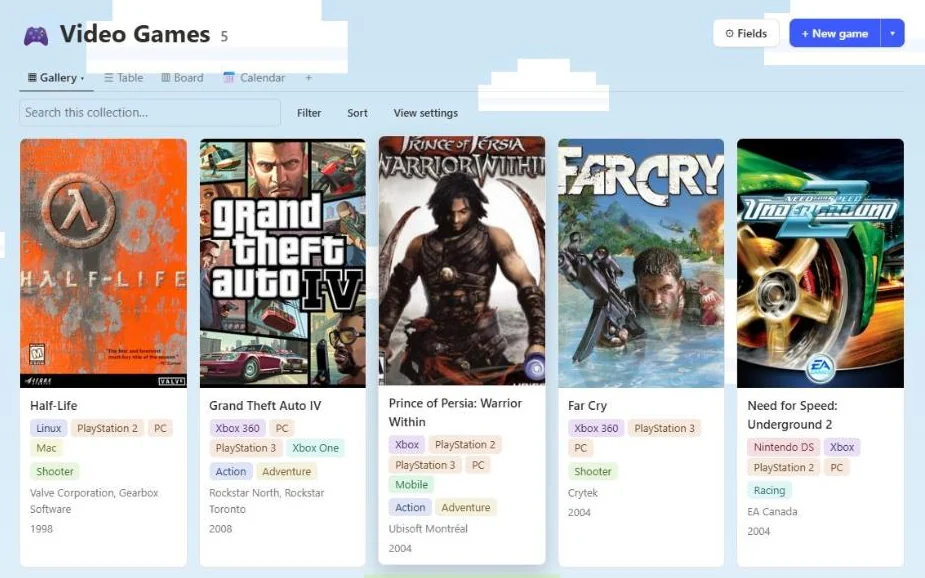
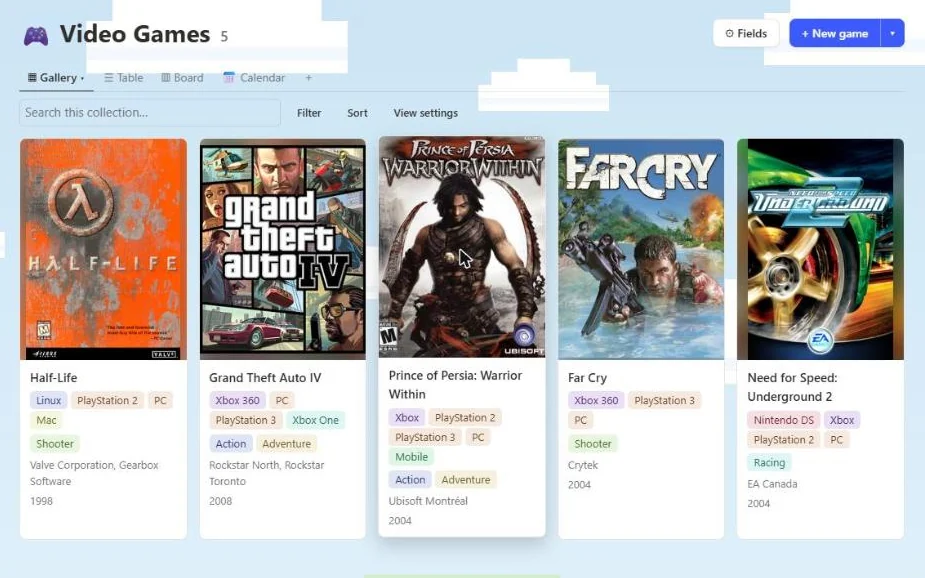
Gallery covers fit without cropping, plain Video Games market text
- Gallery covers use object-fit: contain inside the card frame; when the image
  ratio differs from the frame, a blurred copy of the cover fills the edges
  (box art was cropped up to 17% on the sides before); game cards use a 3:4 frame
- Note page cover thumbnail also shows the whole image
- Hover zoom reduced from 8% to 5%
- Market summary/description no longer compares the plugin to Books and Movies
- Market screenshots retaken

diff --git a/web/src/pages/collection/Cells.tsx b/web/src/pages/collection/Cells.tsx
@@ -60,10 +60,21 @@ export function EditCell({ note, def }: { note: Note; def: PropDef }) {
   );
 }
 
-export function Cover({ src, icon }: { src?: string; icon: string }) {
+/**
+ * Kapak görseli. fit: kapak kırpılmadan kutuya tam sığar, oranı kutudan farklıysa kalan boşluğu
+ * aynı görselin bulanık hâli doldurur (galeri). fit yoksa kutuyu doldurur (pano şeridi).
+ */
+export function Cover({ src, icon, fit }: { src?: string; icon: string; fit?: boolean }) {
   const [url, setUrl] = useState<string | null>(null);
   useEffect(() => {
     if (src) resolveFileUrl(src).then(setUrl, () => setUrl(null));
   }, [src]);
-  return url ? <img className="cover" src={url} alt="" loading="lazy" referrerPolicy="no-referrer" /> : <div className="cover empty">{icon}</div>;
+  if (!url) return <div className="cover empty">{icon}</div>;
+  if (!fit) return <img className="cover" src={url} alt="" loading="lazy" referrerPolicy="no-referrer" />;
+  return (
+    <div className="cover cover-fit">
+      <img className="cover-bg" src={url} alt="" aria-hidden="true" loading="lazy" referrerPolicy="no-referrer" />
+      <img className="cover-img" src={url} alt="" loading="lazy" referrerPolicy="no-referrer" />
+    </div>
+  );
 }

diff --git a/web/src/styles.css b/web/src/styles.css
@@ -364,8 +364,14 @@ h1.title.static { margin: 4px 0 14px; }
 /* Kapaklı galeri: fare gelince kart hafifçe yükselir, kapak çerçevesinin içinde yakınlaşır */
 .card-cover { overflow: hidden; }
 .card-cover .cover { transition: transform 0.45s cubic-bezier(0.2, 0.7, 0.2, 1); }
+/* Kapak kırpılmadan tam sığar; oranı farklıysa kenarları aynı görselin bulanık hâli doldurur */
+.cover-fit { position: relative; overflow: hidden; }
+.cover-fit .cover-bg { position: absolute; inset: 0; width: 100%; height: 100%; object-fit: cover; filter: blur(16px) brightness(0.8) saturate(1.2); transform: scale(1.2); }
+.cover-fit .cover-img { position: relative; width: 100%; height: 100%; object-fit: contain; display: block; }
+/* Oyun kutuları 2:3'ten geniş (çoğu 3:4 ile 4:5 arası) */
+.cards-game .cover { aspect-ratio: 3 / 4; }
 .card:has(.card-cover):hover { transform: translateY(-3px); box-shadow: 0 10px 24px rgba(0, 0, 0, 0.18); }
-.card:hover .card-cover .cover:not(.empty) { transform: scale(1.08); }
+.card:hover .card-cover .cover:not(.empty) { transform: scale(1.05); }
 @media (prefers-reduced-motion: reduce) {
   .card, .card-cover .cover { transition: none; }
   .card:has(.card-cover):hover { transform: none; }

diff --git a/web/src/i18n/locales/tr/plugins.ts b/web/src/i18n/locales/tr/plugins.ts
@@ -114,9 +114,9 @@ export default {
   },
   games: {
     name: 'Video Oyunları',
-    summary: 'Kitaplar ve Filmler gibi bir oyun koleksiyonu: oynadıklarını, oynamak istediklerini ve bıraktıklarını tek yerde tut.',
+    summary: 'Oynadığın, oynamak istediğin ve yarım bıraktığın oyunları kapaklarıyla birlikte tek bir koleksiyonda tut.',
     description: {
-      p1: 'Kenar çubuğuna Kitaplar ve Filmler gibi bir “Video Oyunları” koleksiyonu ekler. Her oyun bir nottur: kapak, platform, tür, geliştirici, yıl, durum, puan ve oynama süresi alanları vardır; altına izlenimlerini, ipuçlarını ya da hikâye notlarını yazabilirsin.',
+      p1: 'Kenar çubuğuna bir “Video Oyunları” koleksiyonu ekler. Her oyun bir nottur: kapak, platform, tür, geliştirici, yıl, durum, puan ve oynama süresi alanları vardır; altına izlenimlerini, ipuçlarını ya da hikâye notlarını yazabilirsin.',
       p2: 'Kapak arayıcı oyunu Wikipedia’da bulur; kapağı seçince yıl, geliştirici, yayıncı, platformlar ve türler Wikidata’dan kendiliğinden dolar. Eklentiyi kaldırırsan koleksiyon gizlenir, oyun notların silinmez; yeniden kurunca hepsi yerinde olur.',
     },
     features: {

diff --git a/web/src/i18n/locales/en/plugins.ts b/web/src/i18n/locales/en/plugins.ts
@@ -116,9 +116,9 @@ export default {
   },
   games: {
     name: 'Video Games',
-    summary: 'A game collection like Books and Movies: keep what you played, want to play and dropped in one place.',
+    summary: 'Keep the games you played, want to play and dropped in one collection, with their covers.',
     description: {
-      p1: 'Adds a “Video Games” collection to the sidebar, like Books and Movies. Each game is a note with cover, platform, genre, developer, year, status, rating and hours played fields; below them you can write your impressions, tips or story notes.',
+      p1: 'Adds a “Video Games” collection to the sidebar. Each game is a note with cover, platform, genre, developer, year, status, rating and hours played fields; below them you can write your impressions, tips or story notes.',
       p2: 'The cover finder looks the game up on Wikipedia; once you pick a cover, the year, developer, publisher, platforms and genres are filled in from Wikidata. If you uninstall the plugin the collection is hidden but your game notes are kept; reinstall it and everything is back.',
     },
     features: {

diff --git a/web/src/pages/collection/Views.tsx b/web/src/pages/collection/Views.tsx
@@ -209,10 +209,10 @@ export function CardsView({ ty, rows, view }: ViewProps) {
   const hidden = new Set(view.hidden ?? ty.props.filter((p) => !p.table).map((p) => p.key));
   const cols = ty.props.filter((p) => !hidden.has(p.key) && p.key !== ty.cover).slice(0, 4);
   return (
-    <div className="cards">
+    <div className={`cards cards-${ty.id}`}>
       {rows.map((n) => (
         <a key={n.id} className="card" href={`#/n/${n.id}`} onClick={peekClick(n.id)}>
-          {ty.cover && <div className="card-cover"><Cover src={n.props[ty.cover] as string | undefined} icon={noteIcon(n)} /></div>}
+          {ty.cover && <div className="card-cover"><Cover src={n.props[ty.cover] as string | undefined} icon={noteIcon(n)} fit /></div>}
           <div className="card-body">
             <div className="card-title">{!ty.cover && <span>{noteIcon(n)} </span>}{displayTitle(n)}</div>
             {cols.map((c) => (n.props[c.key] !== undefined || ['formula', 'rollup'].includes(c.kind) ? <div key={c.key} className="card-prop"><Cell note={n} def={c} /></div> : null))}

diff --git a/web/src/pages.css b/web/src/pages.css
@@ -55,7 +55,7 @@
 .cf-item img { width: 100%; aspect-ratio: 2 / 3; object-fit: cover; border-radius: 4px; display: block; margin-bottom: 3px; background: var(--panel); }
 .cf-item span { display: -webkit-box; -webkit-line-clamp: 2; -webkit-box-orient: vertical; overflow: hidden; }
 .urlinput { position: relative; flex-wrap: wrap; }
-.cover-thumb { width: 34px; height: 48px; object-fit: cover; border-radius: 3px; border: 1px solid var(--border); }
+.cover-thumb { width: 34px; height: 48px; object-fit: contain; background: var(--panel); border-radius: 3px; border: 1px solid var(--border); }
 
 /* Kenar çubuğu sayfa ağacı */
 .tree-row { display: flex; align-items: center; }
